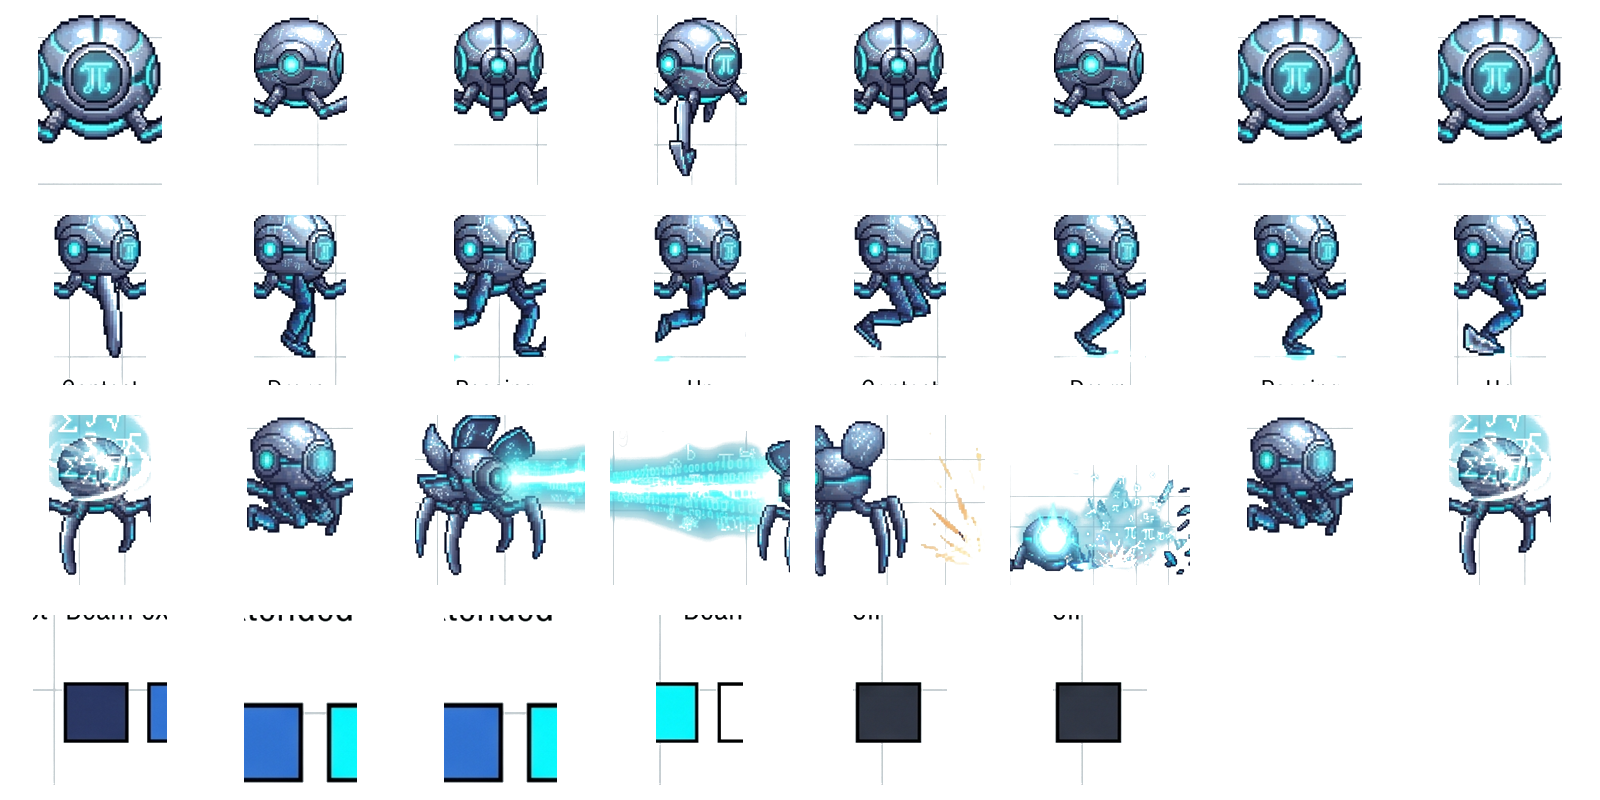
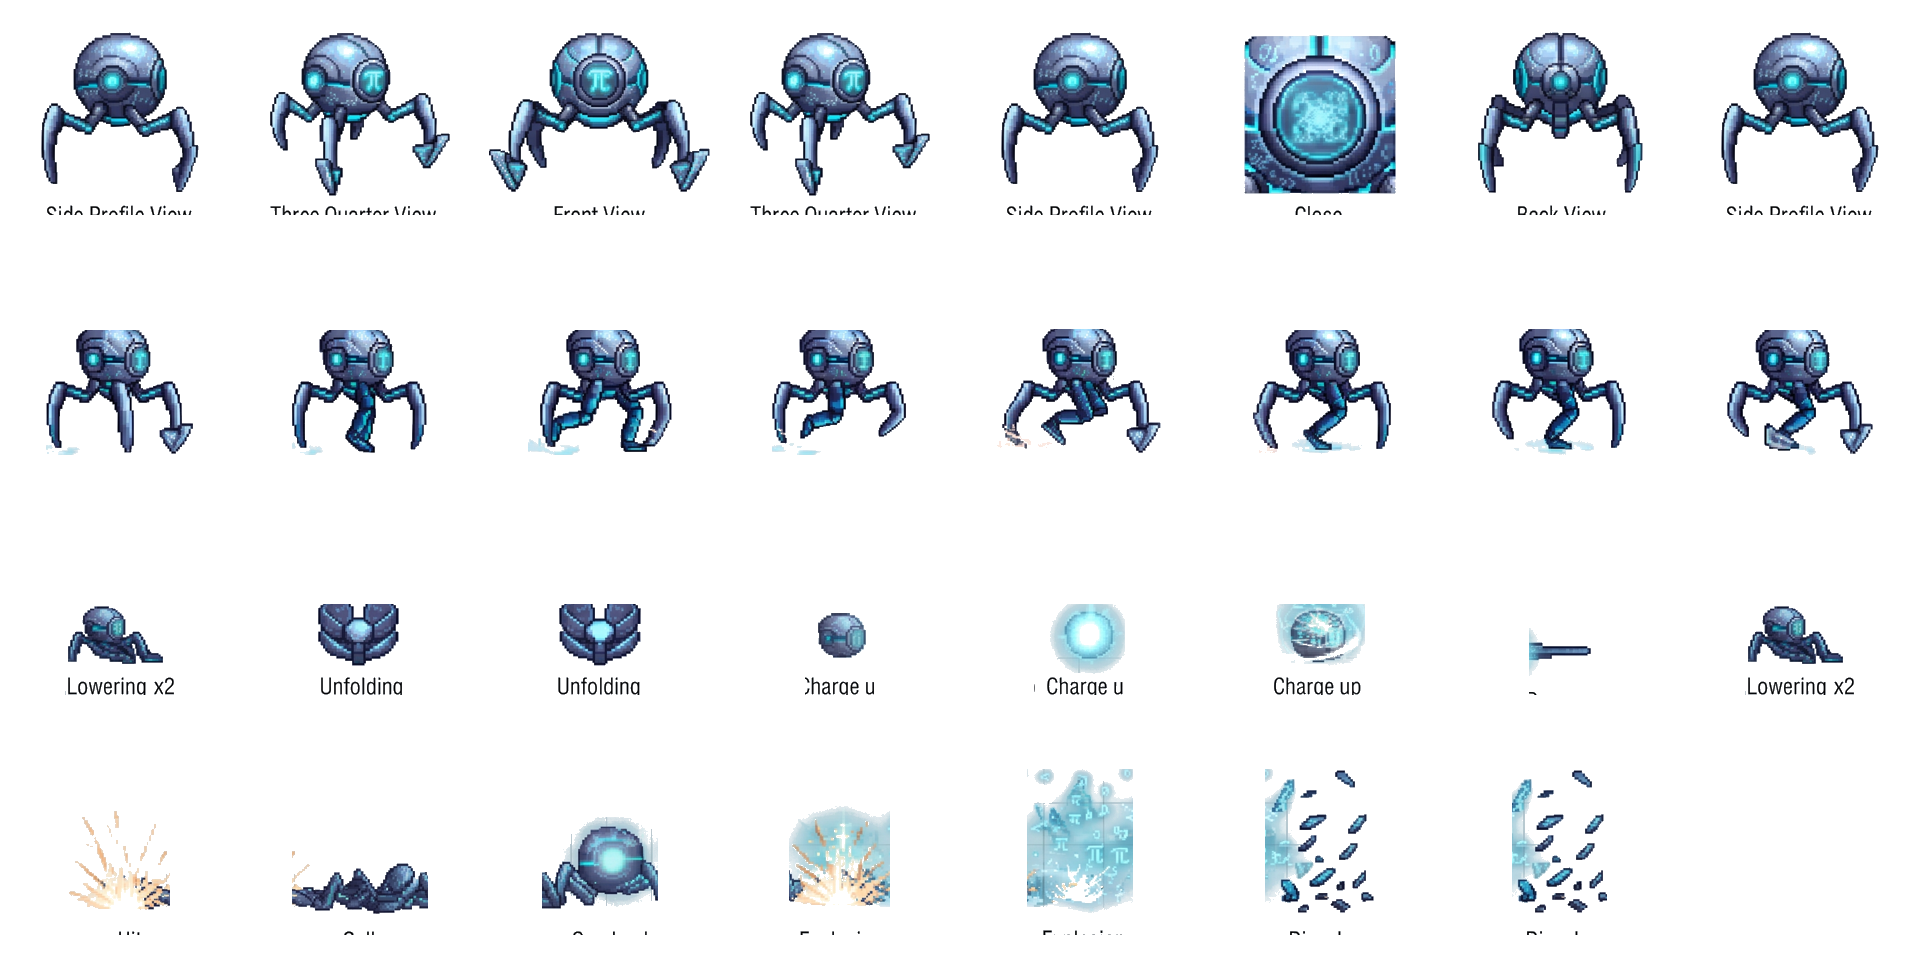
modificacion de mtbot ya se mejor

diff --git a/src/game/scenes/PreloadScene.js b/src/game/scenes/PreloadScene.js
@@ -55,14 +55,14 @@ export class PreloadScene extends Phaser.Scene {
     // Cargar icono oficial de la cabeza del jugador para el HUD de vidas
     this.load.image('player_head', '/assets/sprites/player_head.png');
 
-    // Cargar spritesheet oficial de MatBot con clave independiente 'matbot_texture'
+    // Cargar spritesheet oficial de MatBot con clave independiente 'matbot_texture' (240x240 px calibrado)
     this.load.spritesheet('matbot_texture', '/assets/sprites/matbot_sheet.png', {
-      frameWidth: 200,
-      frameHeight: 200
+      frameWidth: 240,
+      frameHeight: 240
     });
     this.load.spritesheet('matbot', '/assets/sprites/matbot_sheet.png', {
-      frameWidth: 200,
-      frameHeight: 200
+      frameWidth: 240,
+      frameHeight: 240
     });
 
     // Cargar los 4 fondos de escenario pixel art oficiales
@@ -265,12 +265,47 @@ export class PreloadScene extends Phaser.Scene {
       });
     }
 
-    // 6b. Agachado para esquivar obstáculos (Crouch)
+    // 6b. Agachado estático para esquivar obstáculos (Crouch Idle)
     if (!this.anims.exists('player_crouch')) {
       this.anims.create({
         key: 'player_crouch',
         frames: [{ key: pTex, frame: 15 }],
         frameRate: 1
+      });
+    }
+
+    // 6c. Caminar agachado (Crouch Walk / Duck Walk)
+    const crouchWalkFrames = [
+      { key: pTex, frame: 15 },
+      { key: pTex, frame: 10 },
+      { key: pTex, frame: 15 },
+      { key: pTex, frame: 14 }
+    ];
+
+    if (!this.anims.exists('player_crouch_walk')) {
+      this.anims.create({
+        key: 'player_crouch_walk',
+        frames: crouchWalkFrames,
+        frameRate: 8,
+        repeat: -1
+      });
+    }
+
+    if (!this.anims.exists('crouch_walk')) {
+      this.anims.create({
+        key: 'crouch_walk',
+        frames: crouchWalkFrames,
+        frameRate: 8,
+        repeat: -1
+      });
+    }
+
+    if (!this.anims.exists('duck_walk')) {
+      this.anims.create({
+        key: 'duck_walk',
+        frames: crouchWalkFrames,
+        frameRate: 8,
+        repeat: -1
       });
     }
 
@@ -305,17 +340,22 @@ export class PreloadScene extends Phaser.Scene {
   createEnemyAnimations() {
     const mTex = this.textures.exists('matbot_texture') ? 'matbot_texture' : 'matbot';
 
-    // 1. MatBot Idle (Frames 0 a 3 de la fila 0)
+    // 1. MatBot Idle (Frames 0, 1, 0, 4 - Postura lateral/perspectiva de guardia)
     if (!this.anims.exists('matbot_idle')) {
       this.anims.create({
         key: 'matbot_idle',
-        frames: this.anims.generateFrameNumbers(mTex, { start: 0, end: 3 }),
-        frameRate: 5,
+        frames: [
+          { key: mTex, frame: 0 },
+          { key: mTex, frame: 1 },
+          { key: mTex, frame: 0 },
+          { key: mTex, frame: 4 }
+        ],
+        frameRate: 4,
         repeat: -1
       });
     }
 
-    // 2. MatBot Walk / Patrullaje fluido de 8 pasos (Frames 8 a 15 de la fila 1)
+    // 2. MatBot Walk / Patrullaje fluido de 8 pasos (Frames 8 a 15 de la fila 1 - Ciclo oficial Enhanced Walk)
     if (!this.anims.exists('matbot_walk')) {
       this.anims.create({
         key: 'matbot_walk',
@@ -325,32 +365,32 @@ export class PreloadScene extends Phaser.Scene {
       });
     }
 
-    // 3. MatBot Attack (Frames 16 a 21 de la fila 2)
+    // 3. MatBot Attack (Frames 16 a 22 de la fila 2 - Despliegue, carga y disparo fractal)
     if (!this.anims.exists('matbot_attack')) {
       this.anims.create({
         key: 'matbot_attack',
-        frames: this.anims.generateFrameNumbers(mTex, { start: 16, end: 21 }),
+        frames: this.anims.generateFrameNumbers(mTex, { start: 16, end: 22 }),
         frameRate: 10,
         repeat: 0
       });
     }
 
-    // 4. MatBot Hurt / Impacto (Frames 24 a 25 de la fila 3)
+    // 4. MatBot Hurt / Impacto (Frame 24 de la fila 3)
     if (!this.anims.exists('matbot_hurt')) {
       this.anims.create({
         key: 'matbot_hurt',
-        frames: this.anims.generateFrameNumbers(mTex, { start: 24, end: 25 }),
+        frames: [{ key: mTex, frame: 24 }],
         frameRate: 8,
         repeat: 0
       });
     }
 
-    // 5. MatBot Die / Desintegración (Frames 26 a 29 de la fila 3)
+    // 5. MatBot Die / Desintegración destructiva completa (Frames 24 a 30 de la fila 3)
     if (!this.anims.exists('matbot_die')) {
       this.anims.create({
         key: 'matbot_die',
-        frames: this.anims.generateFrameNumbers(mTex, { start: 26, end: 29 }),
-        frameRate: 8,
+        frames: this.anims.generateFrameNumbers(mTex, { start: 24, end: 30 }),
+        frameRate: 9,
         repeat: 0
       });
     }

diff --git a/src/game/entities/Player.js b/src/game/entities/Player.js
@@ -89,15 +89,15 @@ export class Player extends Phaser.Physics.Arcade.Sprite {
       if (!this.isCrouching) {
         this.isCrouching = true;
         // Reducir la caja de colisión exactamente a la mitad (120 px de alto)
-        // Offset Y = 200 para que la base de los pies permanezca apoyada sobre el suelo
+        // Offset Y = 200 para que la base de los pies permanezca perfectamente apoyada sobre el suelo
         this.body.setSize(80, 120);
         this.body.setOffset(60, 200);
       }
 
-      // Permitir desplazamiento horizontal fluido mientras se camina agachado (65% de velocidad)
+      // Permitir desplazamiento horizontal fluido mientras se camina agachado (60% de velocidad estándar)
       const moveLeft = (this.cursors.left.isDown || this.keyA.isDown || this.virtualInput.left);
       const moveRight = (this.cursors.right.isDown || this.keyD.isDown || this.virtualInput.right);
-      const crouchSpeed = Math.round(this.speed * 0.65);
+      const crouchSpeed = Math.round(this.speed * 0.60);
 
       if (moveLeft && !moveRight) {
         this.setVelocityX(-crouchSpeed);
@@ -109,16 +109,30 @@ export class Player extends Phaser.Physics.Arcade.Sprite {
         this.setVelocityX(0);
       }
 
-      if (this.anims.currentAnim?.key !== 'player_crouch') {
-        this.play('player_crouch', true);
+      // Conmutar fluidamente entre caminar agachado e idle agachado
+      const isCrouchMoving = Math.abs(this.body.velocity.x) > 5;
+      const targetCrouchAnim = isCrouchMoving ? 'player_crouch_walk' : 'player_crouch';
+
+      if (this.anims.currentAnim?.key !== targetCrouchAnim) {
+        const animToPlay = this.scene.anims.exists(targetCrouchAnim) ? targetCrouchAnim : 'player_crouch';
+        this.play(animToPlay, true);
       }
-      return; // Mantenerse agachado mientras se presione la tecla
+      return; // Mantenerse en estado agachado mientras se mantenga presionada la tecla/botón
     } else {
       if (this.isCrouching) {
         this.isCrouching = false;
-        // Restaurar caja de colisión normal completa
+        // Restaurar caja de colisión normal completa de pie (240 px de alto)
         this.body.setSize(80, 240);
         this.body.setOffset(60, 80);
+
+        // Transición suave inmediata al incorporarse: caminar/correr si hay inercia o idle si está quieto
+        const moving = Math.abs(this.body.velocity.x) > 10;
+        if (moving) {
+          const isRunning = (this.keyShift.isDown || this.virtualInput.running);
+          this.play(isRunning ? 'player_run' : 'player_walk', true);
+        } else {
+          this.play('player_idle', true);
+        }
       }
     }
 

diff --git a/src/game/entities/MatBot.js b/src/game/entities/MatBot.js
@@ -20,12 +20,12 @@ export class MatBot extends Phaser.Physics.Arcade.Sprite {
     scene.physics.add.existing(this);
 
     // Escala equilibrada y proporcionada al personaje
-    this.setScale(0.5);
+    this.setScale(0.65);
     this.setCollideWorldBounds(true);
 
-    // Caja de colisión física arcade adaptada al sprite de 200x200
-    this.body.setSize(90, 150);
-    this.body.setOffset(55, 45);
+    // Caja de colisión física arcade adaptada al sprite calibrado de 240x240
+    this.body.setSize(140, 130);
+    this.body.setOffset(50, 85);
 
     // Parámetros de comportamiento y patrulla
     this.spawnX = x;

diff --git a/src/ui/components/BattleArenaModal.js b/src/ui/components/BattleArenaModal.js
@@ -170,7 +170,7 @@ export class BattleArenaModal {
     // Sprite de combate de MatBot (textura y animaciones independientes)
     const botTextureKey = this.scene.textures.exists('matbot_texture') ? 'matbot_texture' : 'matbot';
     const botSprite = this.scene.add.sprite(botCenterX, botCenterY, botTextureKey, 0)
-      .setScale(0.6)
+      .setScale(0.85)
       .setScrollFactor(0)
       .setDepth(baseDepth + 3);
     if (this.scene.anims.exists('matbot_idle')) {
